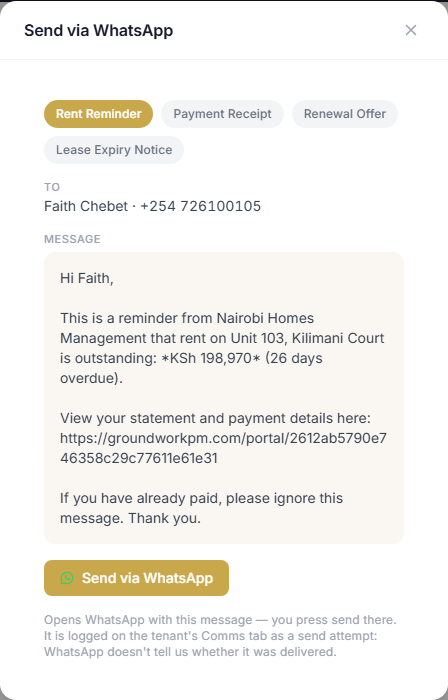
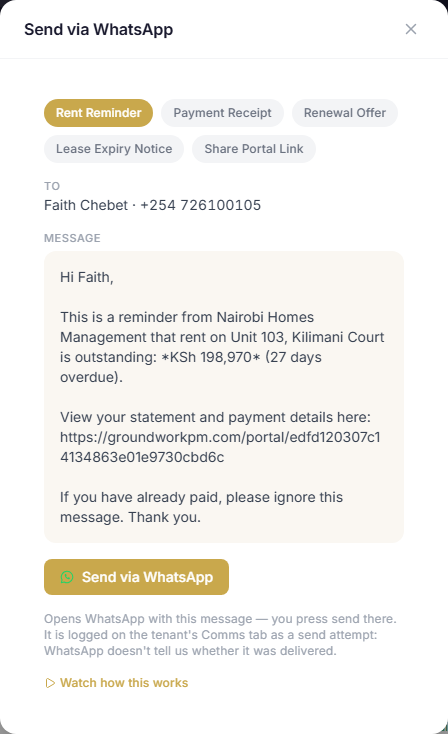
Guide: reply email, no-contact filter, Share Portal Link, email rent reminder screenshots (57-60)
- New capture script scripts/capture-contact-screenshots.ts (utilities org, Kilimani reseed)
- Shot 50 re-captured (five WhatsApp templates)
- Share Portal Link preview shows "[created when you send]" instead of a promise to send later

diff --git a/scripts/capture-contact-screenshots.ts b/scripts/capture-contact-screenshots.ts
@@ -1,0 +1,204 @@
+/**
+ * Guide screenshots for reaching tenants (public/guide.html):
+ *   57 — the email a tenant gets when you reply to their portal message (Tenant messages)
+ *   58 — Tenants list filtered to "Can't be contacted" (Tenant Management)
+ *   59 — WhatsApp "Share Portal Link" for a tenant without a link (WhatsApp reminders)
+ *   60 — Draft Email rent reminder from an Inbox overdue row, quoting what's owed
+ *
+ *   npx tsx scripts/capture-contact-screenshots.ts        (dev server on :3000)
+ *   ONLY=58,59 npx tsx scripts/capture-contact-screenshots.ts
+ *
+ * Same Kenyan org as the utilities / WhatsApp / tenant-message shots
+ * (guide-utilities@groundworkpm.com, KES): the tutorial seed re-creates its
+ * Kilimani Court demo, so the changes below never outlive a run:
+ * - Faith Chebet (103) sends a portal message and the manager replies (real
+ *   APIs); 57 renders the logged reply email — local dev has no Resend key,
+ *   so nothing is sent;
+ * - Peter Omondi (302) loses his email and phone for 58.
+ * window.open is stubbed (no wa.me tab); the portal link in previews is shown
+ * on the production domain (display only).
+ *
+ * Refuses a non-local DATABASE_URL (the seed's guard).
+ */
+import { chromium, type Locator, type Page } from "@playwright/test";
+import * as fs from "fs";
+import * as path from "path";
+import { disconnect, prisma, seedForTutorial } from "./record-tutorials/seed-state";
+import { RECORD_PASSWORD, UTILITIES_RECORD_EMAIL } from "./record-tutorials/seed-utilities";
+
+const BASE_URL = process.env.RECORD_BASE_URL ?? "http://localhost:3000";
+const SHOWN_ORIGIN = "https://groundworkpm.com";
+const OUT_DIR = path.join(__dirname, "..", "public", "guide-screenshots");
+const ONLY = (process.env.ONLY ?? "").split(",").map((s) => s.trim()).filter(Boolean);
+const wanted = (name: string) => ONLY.length === 0 || ONLY.some((p) => name.startsWith(p));
+
+async function settle(page: Page, ms = 1200) {
+  await page.waitForTimeout(600);
+  await page
+    .waitForFunction(() => document.querySelectorAll(".animate-spin").length === 0, undefined, { timeout: 30000 })
+    .catch(() => {});
+  await page.waitForTimeout(ms);
+}
+
+async function elementShot(loc: Locator, name: string) {
+  if (!wanted(name)) return;
+  if (!(await loc.count())) return console.log(`⚠ ${name}: element not found, skipping`);
+  await loc.first().scrollIntoViewIfNeeded().catch(() => {});
+  await settle(loc.page(), 800);
+  await loc.first().screenshot({ path: path.join(OUT_DIR, `${name}.png`) });
+  console.log(`✓ ${name}`);
+}
+
+/** Show the portal link on the production domain (display only). */
+async function showProductionOrigin(page: Page) {
+  await page.evaluate(
+    ({ from, to }) => {
+      const walker = document.createTreeWalker(document.body, NodeFilter.SHOW_TEXT);
+      for (let n = walker.nextNode(); n; n = walker.nextNode()) {
+        if (n.nodeValue?.includes(from)) n.nodeValue = n.nodeValue.split(from).join(to);
+      }
+    },
+    { from: BASE_URL, to: SHOWN_ORIGIN },
+  );
+}
+
+async function main() {
+  console.log("• resetting the Kilimani Court demo");
+  await seedForTutorial("utilities-metering");
+  fs.mkdirSync(OUT_DIR, { recursive: true });
+
+  // 58: one tenant nothing can reach.
+  await prisma.tenant.updateMany({
+    where: { name: "Peter Omondi", isActive: true, unit: { property: { name: "Kilimani Court" } } },
+    data: { email: null, phone: null },
+  });
+
+  const browser = await chromium.launch({ headless: true });
+  const context = await browser.newContext({ viewport: { width: 1280, height: 800 } });
+  await context.addInitScript(() => {
+    try {
+      window.localStorage.setItem("gw:welcome-tour-done", "1");
+    } catch {}
+    window.open = () => null;
+  });
+  const page = await context.newPage();
+
+  await page.goto(`${BASE_URL}/login`);
+  await page.fill('input[type="email"]', UTILITIES_RECORD_EMAIL);
+  await page.fill('input[type="password"]', RECORD_PASSWORD);
+  await page.click('button[type="submit"]');
+  await page.waitForURL((u) => !u.href.includes("/login"), { timeout: 30000 });
+
+  // Faith writes from her portal; the manager answers (no named helpers in
+  // here: tsx's __name wrapper doesn't exist in the page).
+  const ids = await page.evaluate(async () => {
+    const list = await fetch("/api/tenants").then((r) => r.json());
+    const all = Array.isArray(list) ? list : list.tenants;
+    const faith = all.find((t: { name: string }) => t.name === "Faith Chebet");
+    const mercy = all.find((t: { name: string }) => t.name === "Mercy Wanjiru");
+    const created = await fetch(`/api/tenants/${faith.id}/portal-token`, { method: "POST" }).then((r) => r.json());
+    const thread = await fetch(`/api/portal/${created.portalToken}/messages`, {
+      method: "POST",
+      headers: { "Content-Type": "application/json" },
+      body: JSON.stringify({
+        subject: "Water pressure in the kitchen",
+        category: "GENERAL",
+        body: "Hi, the kitchen tap has had very low pressure since Monday. Could someone take a look this week? I'm home after 4 pm.",
+      }),
+    }).then((r) => r.json());
+    await fetch(`/api/tenants/${faith.id}/messages/${thread.id}`, {
+      method: "POST",
+      headers: { "Content-Type": "application/json" },
+      body: JSON.stringify({ body: "Thanks Faith — our plumber will come on Thursday after 4 pm. Please leave the kitchen accessible." }),
+    });
+    return { faithId: faith.id as string, mercyId: mercy.id as string };
+  });
+
+  // ── 57: the reply email the tenant receives (rendered from the email log) ──
+  if (wanted("57")) {
+    const email = await prisma.emailLog.findFirst({
+      where: { subject: { startsWith: "Reply from" } },
+      orderBy: { sentAt: "desc" },
+      select: { subject: true, toEmail: true, bodyHtml: true },
+    });
+    if (!email) {
+      console.log("⚠ 57-tenant-reply-email: no logged email, skipping");
+    } else {
+      const mail = await browser.newPage({ viewport: { width: 640, height: 900 } });
+      await mail.setContent(
+        `<html><body style="margin:0;background:#f4f1ea;padding:20px">
+          <div id="mail" style="background:#fff;border:1px solid #e5e7eb;border-radius:12px;max-width:600px;margin:0 auto;font-family:sans-serif">
+            <div style="padding:14px 24px;border-bottom:1px solid #eee;font-size:13px;color:#374151">
+              <div><strong>From:</strong> Groundwork PM &lt;noreply@groundworkpm.com&gt;</div>
+              <div><strong>To:</strong> ${email.toEmail}</div>
+              <div><strong>Subject:</strong> ${email.subject}</div>
+            </div>
+            ${(email.bodyHtml ?? "").split(BASE_URL).join(SHOWN_ORIGIN)}
+          </div>
+        </body></html>`,
+      );
+      await mail.locator("#mail").screenshot({ path: path.join(OUT_DIR, "57-tenant-reply-email.png") });
+      console.log("✓ 57-tenant-reply-email");
+      await mail.close();
+    }
+  }
+
+  // ── 58: Tenants list → Can't be contacted ──
+  if (wanted("58")) {
+    await page.goto(`${BASE_URL}/tenants?filter=no-contact`, { timeout: 90000 });
+    await page.getByText("Peter Omondi").first().waitFor({ timeout: 60000 });
+    await settle(page);
+    const filters = page.locator("select").filter({ hasText: "All contacts" }).first();
+    const panel = filters.locator("xpath=ancestor::div[contains(@class,'rounded')][1]");
+    // Filter bar + the one matching card.
+    const box = await panel.boundingBox();
+    const card = await page.getByText("Peter Omondi").first().locator("xpath=ancestor::div[contains(@class,'rounded')][1]").boundingBox();
+    if (box && card) {
+      await page.screenshot({
+        path: path.join(OUT_DIR, "58-tenants-no-contact.png"),
+        clip: { x: box.x - 8, y: box.y - 8, width: box.width + 16, height: card.y + card.height - box.y + 16 },
+      });
+      console.log("✓ 58-tenants-no-contact");
+    } else {
+      console.log("⚠ 58-tenants-no-contact: layout not found, skipping");
+    }
+  }
+
+  // ── 59: WhatsApp → Share Portal Link (Mercy has no portal link) ──
+  if (wanted("59")) {
+    await page.goto(`${BASE_URL}/tenants/${ids.mercyId}`, { timeout: 90000 });
+    await settle(page);
+    await page.locator('button:has-text("WhatsApp")').first().click();
+    const dialog = page.locator("dialog[open]");
+    await dialog.getByText("Hi Mercy,").first().waitFor({ timeout: 30000 });
+    await dialog.locator('button:has-text("Share Portal Link")').click();
+    await dialog.getByText("has set up your tenant portal").first().waitFor({ timeout: 10000 });
+    await settle(page, 600);
+    await showProductionOrigin(page);
+    await elementShot(dialog, "59-whatsapp-portal-link");
+    await page.keyboard.press("Escape");
+  }
+
+  // ── 60: Inbox overdue row → Send reminder (Draft Email, figures owed) ──
+  if (wanted("60")) {
+    await page.setViewportSize({ width: 1280, height: 1100 });
+    await page.goto(`${BASE_URL}/inbox`, { timeout: 90000 });
+    await settle(page, 1500);
+    const row = page.locator('tr:has-text("Rent overdue"):has-text("Faith Chebet")').first();
+    await row.locator('button:has-text("Send reminder")').click();
+    const modal = page.locator("div.fixed.inset-0 > div.bg-white").last();
+    await modal.getByText("outstanding balance of").first().waitFor({ timeout: 60000 });
+    await settle(page, 800);
+    await showProductionOrigin(page);
+    await elementShot(modal, "60-email-rent-reminder");
+  }
+
+  await browser.close();
+}
+
+main()
+  .catch((e) => {
+    console.error(e);
+    process.exitCode = 1;
+  })
+  .finally(() => disconnect());

diff --git a/public/guide.html b/public/guide.html
@@ -790,6 +790,10 @@
         <img src="guide-screenshots/56-tenant-message-thread.png" alt="The conversation on the tenant's Portal Msgs tab" loading="lazy">
         <div class="screenshot-caption"><em>Reply</em> opens the conversation on the tenant's <em>Portal Msgs</em> tab, ready for your answer</div>
       </div>
+      <div class="screenshot-wrap" style="margin:14px 0;max-width:600px">
+        <img src="guide-screenshots/57-tenant-reply-email.png" alt="The email a tenant receives when you reply" loading="lazy">
+        <div class="screenshot-caption">The tenant is emailed your reply, with a button back to their portal</div>
+      </div>
     </div>
 
     <div class="sub-section">
@@ -1036,6 +1040,11 @@
       </div>
     </div>
 
+    <div class="screenshot-wrap" style="max-width:960px">
+      <img src="guide-screenshots/58-tenants-no-contact.png" alt="Tenants filtered to Can't be contacted" loading="lazy">
+      <div class="screenshot-caption"><em>Can't be contacted</em> lists the active tenants with no email and no usable phone number</div>
+    </div>
+
     <div class="screenshot-wrap">
       <img src="guide-screenshots/07-tenant-detail.png" alt="Tenant detail" loading="lazy">
       <div class="screenshot-caption">Tenant detail page — tabbed interface covering every aspect of the tenancy</div>
@@ -1202,12 +1211,21 @@
       </div>
       <p style="margin:12px 0 8px"><strong>What the rent reminder says</strong></p>
       <p style="margin-bottom:12px">The tenant's first name, their unit and property, the amount outstanding (in bold, in the property's currency), how many days it is overdue, and a link to their tenant portal where they can see their statement and payment details. The amount and days are worked out exactly as in the reminder email, so the two always agree. A reminder from the Inbox covers that invoice; one from the tenant page covers everything the tenant has outstanding.</p>
+      <p style="margin-bottom:12px">The <em>Rent Reminder</em> in <strong>Draft Email</strong> quotes the same figures — the outstanding balance, the month and how many days it is overdue — so an email and a WhatsApp message about the same invoice always agree. When nothing is outstanding it reminds the tenant of the month's rent instead.</p>
+      <div class="screenshot-wrap" style="margin:14px 0;max-width:580px">
+        <img src="guide-screenshots/60-email-rent-reminder.png" alt="Draft Email rent reminder quoting the outstanding balance" loading="lazy">
+        <div class="screenshot-caption"><em>Send reminder</em> on an overdue invoice in the Inbox: the email quotes what is owed for that invoice</div>
+      </div>
       <p style="margin-bottom:8px"><strong>The portal link</strong></p>
       <ul class="feature-list">
         <li>If the tenant already has a portal link, it is added to the message</li>
         <li>If not, the button reads <em>Create portal link &amp; send</em> — it creates the link and sends the message in one tap. Or choose <em>Send without the link</em>. A portal link is never created unless you tap for it</li>
         <li><strong>Share portal link</strong> is a short welcome that introduces the tenant portal (invoices and balance, receipts, proof of payment, repairs, messages) with their link. It's the quickest way to get a tenant onto the portal; as the message is the link, there is no option to send it without one</li>
       </ul>
+      <div class="screenshot-wrap" style="margin:14px 0;max-width:440px">
+        <img src="guide-screenshots/59-whatsapp-portal-link.png" alt="Share portal link on WhatsApp" loading="lazy">
+        <div class="screenshot-caption"><em>Share portal link</em> for a tenant without one — <em>Create portal link &amp; send</em> makes the link and adds it to the message</div>
+      </div>
       <p style="margin:12px 0 8px"><strong>Phone numbers</strong></p>
       <ul class="feature-list">
         <li>WhatsApp needs the full international number, so save tenants' phones with the country code — <code>+254 712 345 678</code>, <code>+44 7911 123456</code></li>

diff --git a/src/lib/whatsapp-messages.ts b/src/lib/whatsapp-messages.ts
@@ -127,7 +127,8 @@ const EN: Record<WhatsAppTemplate, (c: WhatsAppMessageContext) => string> = {
       "",
       `${c.senderName} has set up your tenant portal for Unit ${c.unitNumber}, ${c.propertyName}. There you can see your invoices and balance, download receipts, send proof of payment, report a repair and message us.`,
       "",
-      c.portalUrl ? `Your link: ${c.portalUrl}` : "We'll send you the link shortly.",
+      // Never sent without the link (PORTAL_LINK_REQUIRED) — the fallback only shows in the preview.
+      `Your link: ${c.portalUrl ?? "[created when you send]"}`,
       "",
       "No password needed — please keep the link private.",
     ].join("\n"),

diff --git a/CLAUDE.md b/CLAUDE.md
@@ -380,7 +380,7 @@ Tenants who don't use email get messages from the manager's **own WhatsApp** via
 - **UI** (`src/components/whatsapp/`): `WhatsAppSendButton` is the one control — no usable phone → disabled + HelpTip "Add a phone number with country code"; no valid portal link → "Create portal link & send" (`POST /api/tenants/[id]/portal-token` on that tap only — never silently; the tab is reserved during the tap and pointed at WhatsApp after, as Safari blocks `window.open` after an await) or "Send without the link"; else `window.open(url, "_blank", "noopener")`. Entry points: EmailDraftModal ("Send via WhatsApp" beside Copy body / Open in mail app, same template), the tenant header "WhatsApp" (`WhatsAppModal`, all four templates), the Inbox `INVOICE_OVERDUE` row action (rent reminder for that invoice), and the Inbox bulk bar "Remind on WhatsApp" (`WhatsAppBulkModal` — one chat per tap, "Next: Faith — Unit 103 · 1 of 2"; a tenant with several selected invoices gets one tenant-level message; no-phone tenants and skips listed at the end). `WhatsAppIcon` — lucide has no brand icons.
 - **Logging**: each tap fire-and-forgets `POST /api/tenants/[id]/communication-log { type: "WHATSAPP", subject: "Rent reminder (WhatsApp)" …, body, templateUsed, caseThreadId }`; with a case it writes an `EXTERNAL_UPDATE` CaseEvent (not `EMAIL_SENT`). The Comms tab shows a green WhatsApp badge and "Send attempt — delivery isn't confirmed".
 - **Tutorial** `whatsapp-reminders` (`scripts/record-tutorials/whatsapp-reminders.ts`, seed `seed-whatsapp-reminders.ts` in the utilities tutorial org; linked from `WhatsAppModal`) and guide shots 50–53 (`scripts/capture-whatsapp-screenshots.ts`). Both stub `window.open` — never open a real chat to a demo tenant.
-- **Can't be contacted**: `tenantContactChannels` / `isTenantUncontactable` (`src/lib/tenant-contact.ts`, tested) — no valid email AND no WhatsApp-usable phone (with the property currency's dial code). Surfaces: the Tenants list "Can't be contacted" filter (`/tenants?filter=no-contact`) + red "No contact" badge on active tenants, and a data-health check (non-demo, listed in the weekly super-admin report; `DataHealthCheck.keep` filters rows in JS and drops `_`-prefixed helper columns).
+- **Can't be contacted**: `tenantContactChannels` / `isTenantUncontactable` (`src/lib/tenant-contact.ts`, tested) — no valid email AND no WhatsApp-usable phone (with the property currency's dial code). Surfaces: the Tenants list "Can't be contacted" filter (`/tenants?filter=no-contact`) + red "No contact" badge on active tenants, and a data-health check (non-demo, listed in the weekly super-admin report; `DataHealthCheck.keep` filters rows in JS and drops `_`-prefixed helper columns). Guide shots 57–60 (reply email, no-contact filter, Share Portal Link, Draft Email rent reminder) come from `scripts/capture-contact-screenshots.ts` (utilities org + Kilimani reseed).
 - **Phone capture**: the tenant form hints the country code; the tenants importer keeps number-formatted cells as text and warns (non-fatal) when a phone can't be used for WhatsApp with the property's dial code. Production (2026-10-01): real numbers mostly carry a country code; many KES tenants have none on file.
 
 ### Owner Invoice System
